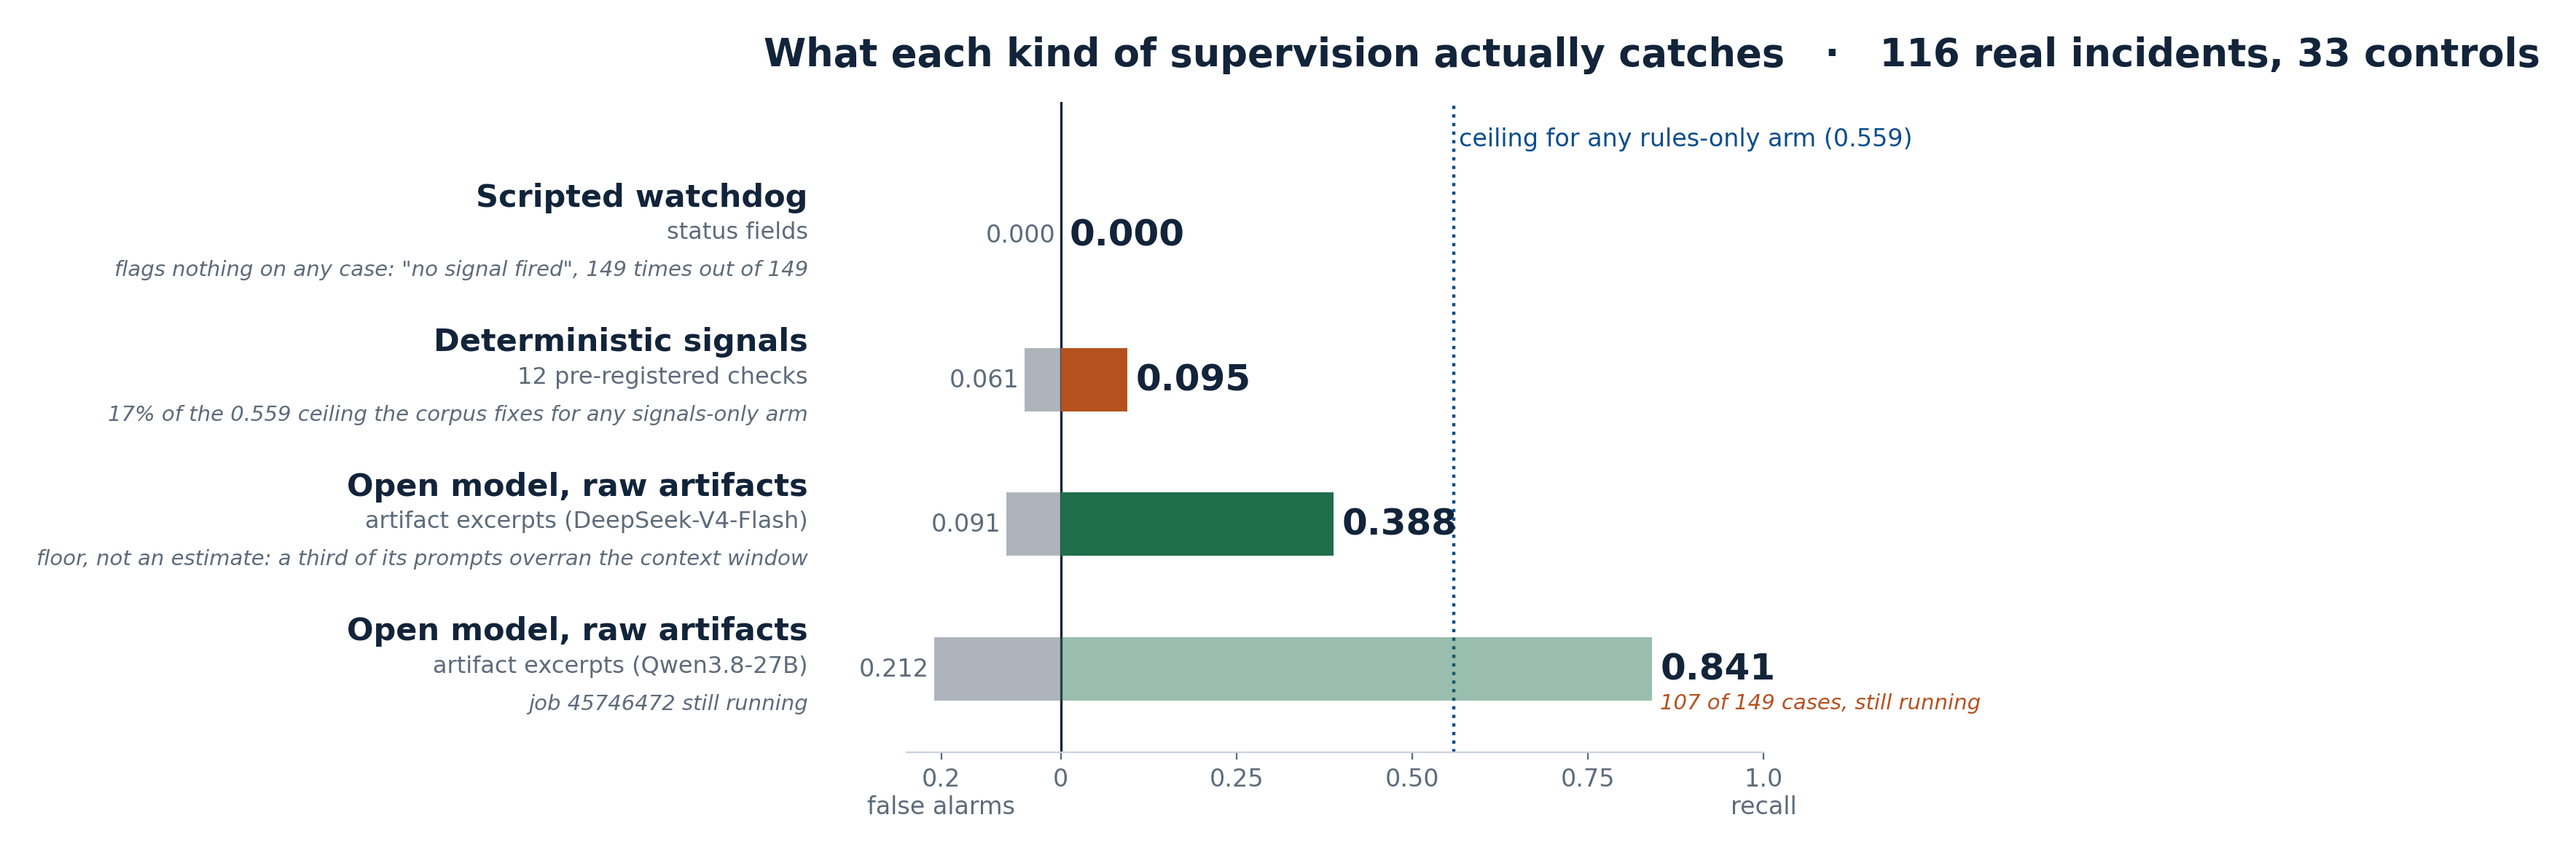
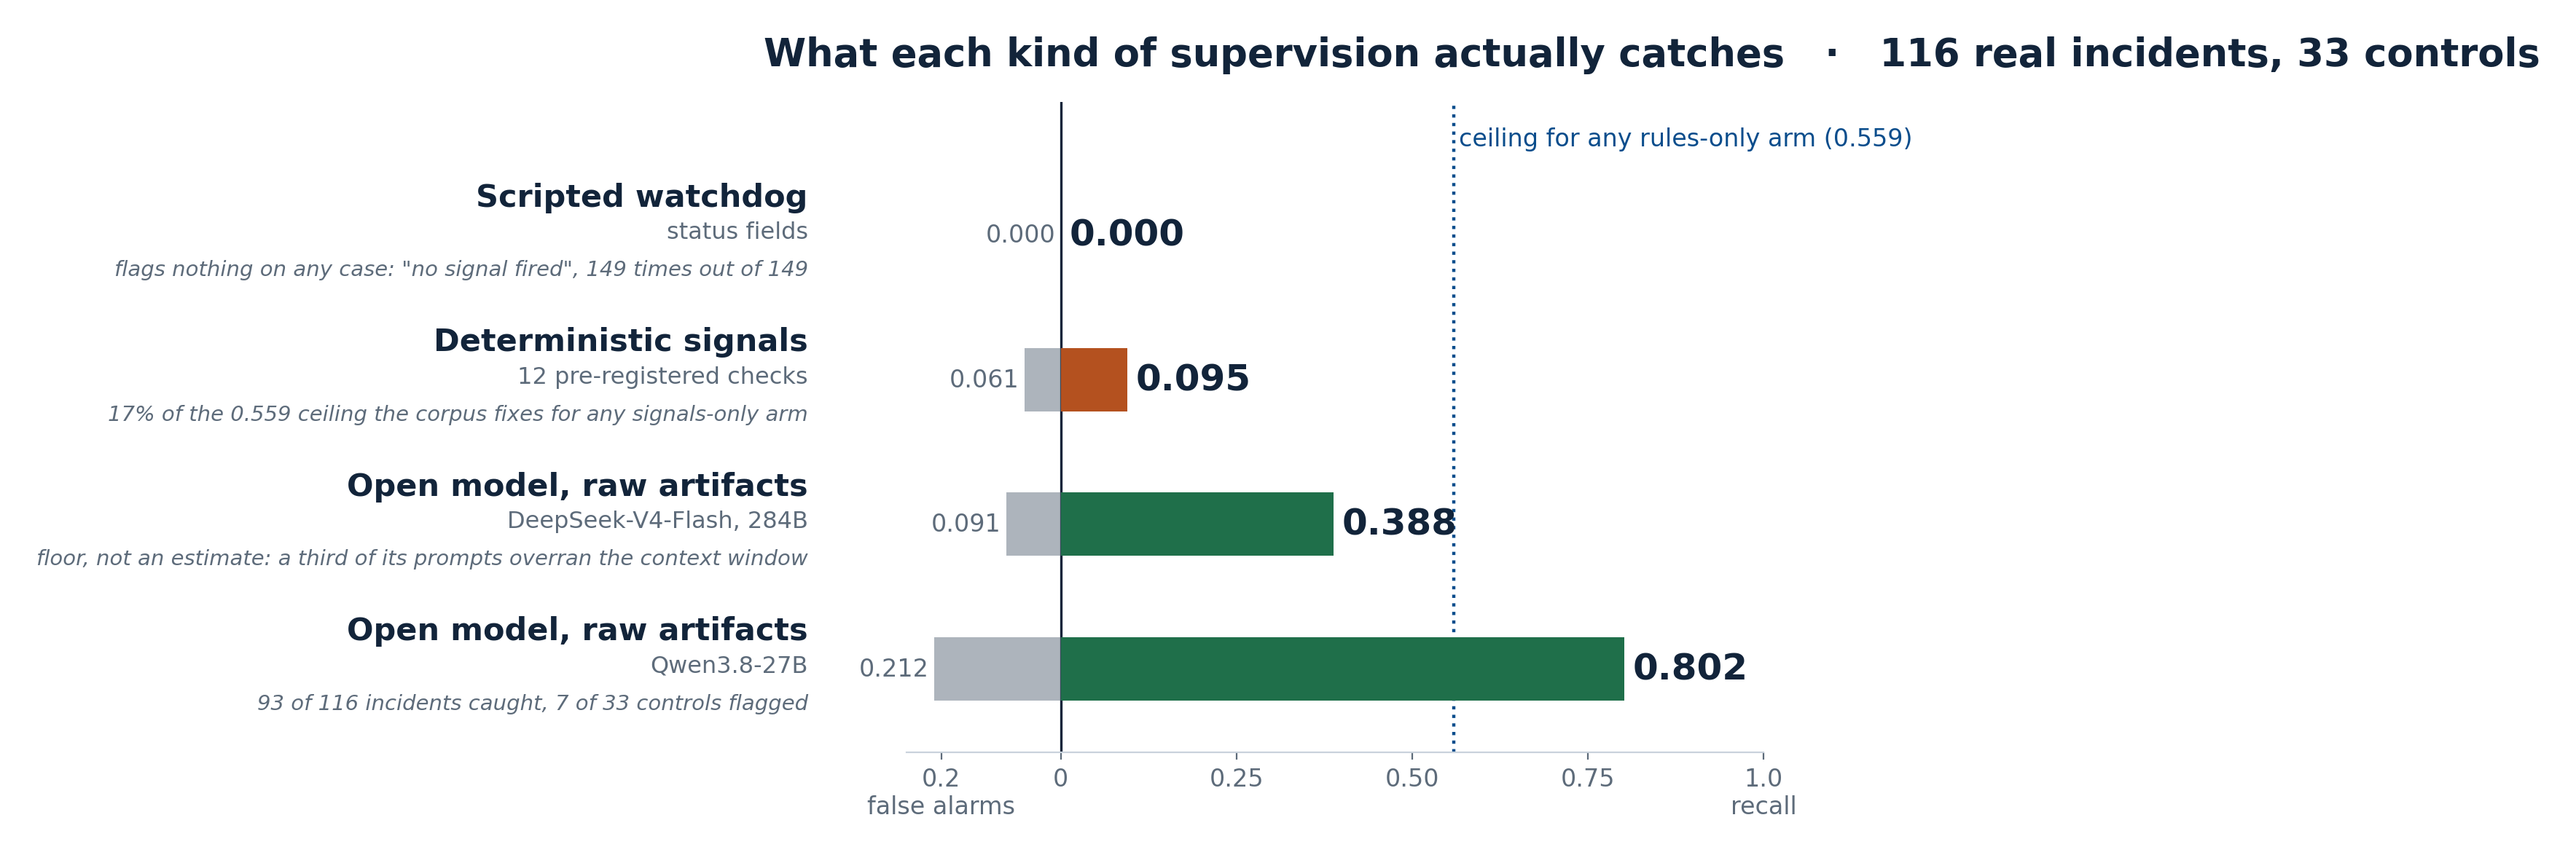
v3.48.0: both experiments complete -- the class space, and what supervision catches
The class-space ladder is complete on both arms. Arm B's +40,000 rung reads
0.8252 against arm A's 0.8436; arm B is worse at every rung carrying harvested
images by a monotonically widening gap of -0.0061, -0.0163, -0.0184. Slope over
all four rungs: A -0.00487 per +10,000 images, B -0.00907. The hypothesis is
falsified on its own pre-registered condition. What survives: the harvested boxes
are the cost -- 9.0 per image against 1.7 in the core -- and concentrating them
into one class raises it.

The supervision benchmark's strongest arm is complete at 149 of 149:

  A0 scripted, status fields        0.000 (0 of 116)   FA 0.000
  A0p signals-only, 12 checks       0.095 (11 of 116)  FA 0.061
  L2 DeepSeek-V4-Flash (284B)       0.388 (45 of 116)  FA 0.091
  L3 DeepSeek-V4-Flash              0.328 (38 of 116)  FA 0.091
  L2 Qwen3.8-27B                    0.802 (93 of 116)  FA 0.212 (7 of 33)

The 0.841 quoted at 77 of 149 settles at 0.802 over the full split; it carried
its partial mark and is superseded, not corrected.

Model size is not the axis: the 284B scores 0.388 where the 27B scores 0.802 on
the same cases. Reported beside the table rather than in it, Qwen3-14B reaches a
similar recall (0.824) at a 0.636 false-alarm rate -- it flags almost everything,
which is the failure mode the 33 controls exist to expose, and why recall is
never reported here without its false-alarm rate.

Claude-Session: https://claude.ai/code/session_019GW1g5v3nTp9QATBzJYkkw

Changed region(s): [[0.4045, 0.7359, 0.7779, 0.8279], [0.0934, 0.7666, 0.3112, 0.8279], [0.1556, 0.5826, 0.3112, 0.644]]

diff --git a/docs/poster/poster_data.py b/docs/poster/poster_data.py
@@ -54,6 +54,9 @@ LADDER = {
     "rungs": [0, 5000, 15000, 40000],
     "seed101": [0.8636, 0.8599, 0.8614, 0.8436],
     "seed102": PENDING, "seed103": PENDING,
+    # Arm B of the class-space experiment, complete: every harvested box rewritten
+    # to one shared class instead of a hash of its source dataset.
+    "armB": [0.8636, 0.8538, 0.8451, 0.8252],
     "jobs": "44397807_[0-3] (seed 101), 45790239_[0-3] (102), 45790291_[0-3] (103)",
     "src": "results/framework/s3_tier_v2_{0,5000,15000,40000}.json",
     "reading": ("Twelve times the training data is flat to +15,000 and then costs 0.020. "
@@ -90,13 +93,18 @@ SUPERVISION = {
         {"arm": "Deterministic signals", "reads": "12 pre-registered checks",
          "tp": 11, "recall": 0.095, "fa": 0.061, "cases": 149, "partial": False,
          "note": "17% of the 0.559 ceiling the corpus fixes for any signals-only arm"},
-        {"arm": "Open model, raw artifacts", "reads": "artifact excerpts (DeepSeek-V4-Flash)",
+        {"arm": "Open model, raw artifacts", "reads": "DeepSeek-V4-Flash, 284B",
          "tp": 45, "recall": 0.388, "fa": 0.091, "cases": 149, "partial": False,
          "note": "floor, not an estimate: a third of its prompts overran the context window"},
-        {"arm": "Open model, raw artifacts", "reads": "artifact excerpts (Qwen3.8-27B)",
-         "tp": 37, "recall": 0.841, "fa": 0.212, "cases": 107, "partial": True,
-         "note": "job 45746472 still running"},
+        {"arm": "Open model, raw artifacts", "reads": "Qwen3.8-27B",
+         "tp": 93, "recall": 0.802, "fa": 0.212, "cases": 149, "partial": False,
+         "note": "93 of 116 incidents caught, 7 of 33 controls flagged"},
     ],
+    # Reported beside the table, not in it: the 14B reaches a similar recall by
+    # flagging almost everything, which is the failure mode the control cases exist
+    # to expose. Partial at the time of writing and marked as such.
+    "trigger_happy": {"model": "Qwen3-14B", "recall": 0.824, "fa": 0.636,
+                      "cases": 50, "note": "50 of 149 scored, still running"},
     "ceiling": 0.559,
     "ceiling_why": "56 of the 127 incidents declare no deterministic signal that could reach them",
     "src": "results/framework/supervision_bench/verdicts/*/ scored against cases/*/truth.json",

diff --git a/weed_llm_benchmark/CHANGELOG.md b/weed_llm_benchmark/CHANGELOG.md
@@ -9384,3 +9384,33 @@ Platform totals counted on disk: **2,686 frames, 26 sessions, 2 robots, none
 labelled**. Robot 241 contributes 2,259 frames of which 1,704 are genuinely on
 vegetation or soil. The hero field recording is stored twice under two slugs,
 byte-identical — counting both would inflate the field corpus by 1,013 frames.
+
+## 2026-09-11 — v3.48.0 both experiments complete: the class space, and what supervision catches
+
+**The class-space ladder is complete on both arms.** Arm B's +40,000 rung reads
+**0.8252** against arm A's 0.8436, and arm B is worse at every rung that carries
+harvested images, by a gap that widens monotonically: −0.0061, −0.0163, −0.0184.
+Slope over all four rungs: arm A −0.00487 per +10,000 images, arm B −0.00907.
+The hypothesis that hashed class ids were what made the ladder fall is falsified
+on its own pre-registered condition, and the reading that survives is that the
+harvested boxes are the cost — 9.0 per image against 1.7 in the core — and
+concentrating them into one class raises it.
+
+**The supervision benchmark's strongest arm is complete at 149 of 149 cases.**
+
+| arm | reads | recall | false alarms |
+|---|---|---|---|
+| A0 scripted | status fields | 0.000 (0 of 116) | 0.000 |
+| A0p signals-only | the 12 checks | 0.095 (11 of 116) | 0.061 |
+| L2 DeepSeek-V4-Flash (284B) | raw artifacts | 0.388 (45 of 116) | 0.091 |
+| L3 DeepSeek-V4-Flash | artifacts + signals | 0.328 (38 of 116) | 0.091 |
+| **L2 Qwen3.8-27B** | raw artifacts | **0.802 (93 of 116)** | **0.212 (7 of 33)** |
+
+The 0.841 quoted at 77 of 149 cases settles at **0.802** over the full split; the
+earlier figure carried its partial mark and is superseded rather than corrected.
+
+**Model size is not the axis.** The 284 B model scores 0.388 and the 27 B scores
+0.802 on the same cases. Reported beside the table rather than in it: Qwen3-14B
+reaches a similar recall (0.824) at a **0.636 false-alarm rate** — it flags almost
+everything, which is the failure mode the 33 control cases exist to expose, and
+why recall is never reported here without its false-alarm rate.

diff --git a/docs/REGRESSION_DIAGNOSIS.md b/docs/REGRESSION_DIAGNOSIS.md
@@ -519,12 +519,16 @@ ran: *falsified if arm B's slope is not shallower than arm A's by more than the 
 | +0 | 0.8636 | **0.8636** | +0.0000 | 0 |
 | +5,000 | 0.8599 | 0.8538 | −0.0061 | 45,156 |
 | +15,000 | 0.8614 | 0.8451 | **−0.0163** | 135,386 |
-| +40,000 | 0.8436 | *running* | — | — |
+| +40,000 | 0.8436 | **0.8252** | **−0.0184** | 361,236 |
 
-| arm | slope per +10,000 harvested images |
+| arm | slope per +10,000 harvested images (all four rungs) |
 |---|---|
-| A, `md5(slug) % 88` | −0.00104 |
-| B, one shared class | **−0.01181** |
+| A, `md5(slug) % 88` | −0.00487 |
+| B, one shared class | **−0.00907** |
+
+The ladder is complete on both arms now. Arm B is worse at every rung that carries harvested
+images and the gap widens monotonically — −0.0061, −0.0163, −0.0184 — so the slope comparison
+does not rest on the three-rung fit the first reading used.
 
 At +15,000 the gap is 0.0163, **4.1× the round recipe's measured seed std (0.0040)**. The +0 rung
 carries no harvested images and reproduced arm A exactly — 0.8636 at 97 epochs, both arms — so the
